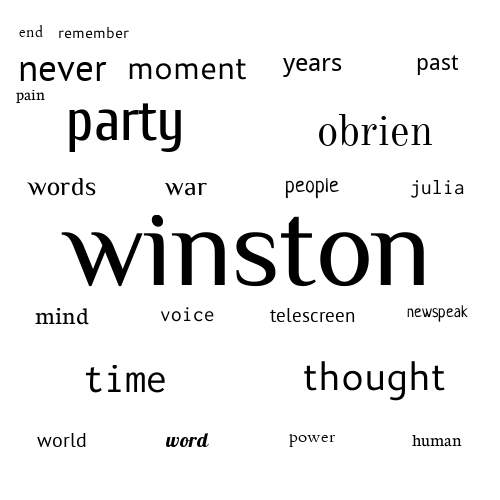
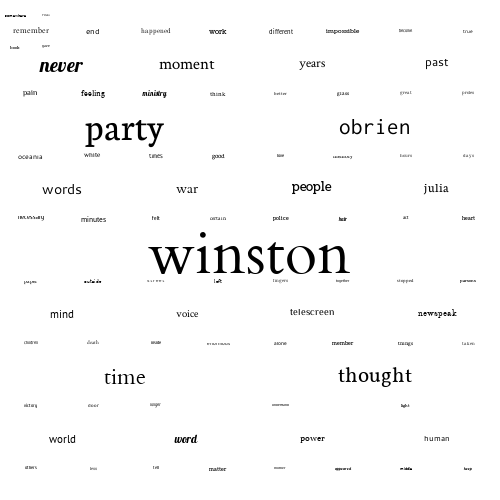
Grid is now drawn dynamically based on size of num words

diff --git a/wordcloud/grid.py b/wordcloud/grid.py
@@ -1,4 +1,5 @@
 import os
+import random
 from PIL import Image, ImageDraw
 
 # DEFAULT OUTPUT PATH
@@ -17,21 +18,30 @@ class GridGenerator:
 
         self.grid = generate_grid_coords(self.grid_width, self.grid_height, self.num_squares)
 
+    # DRAWS GRID AND OUTPUTS IT
     def draw_grid(self, grid_path=GRID_IMG_FILEPATH):
         GRID_IMG = Image.new('RGB', (self.grid_width, self.grid_height), color='white')
         draw = ImageDraw.Draw(GRID_IMG)
 
-        count = 1
+        # Calculates sum some grid can be drawn dynamically
+        sums = []
+        for x in range(0, self.exponent):
+            val = pow(4, x) if x == 0 else pow(4, x) + sums[x-1]
+            sums.append(val)
+
+        # Draws grid dynamically based on num words to be placed
+        num_drawn = 1
+        width = pow(2, len(sums))
+        rand_colour = colour()
         for square in self.grid:
-            if count <= pow(4, 0):
-                draw.rectangle(square, outline=(255,0,0), width = 12)
-            elif count <= pow(4, 1) + pow(4, 0):
-                draw.rectangle(square, outline=(0,255,0), width = 6)
-            elif count <= pow(4, 2) + pow(4, 1) + pow(4, 0):
-                draw.rectangle(square, outline=(0,0,255), width = 3)
-            else:
-                draw.rectangle(square, outline=(255,0,255), width = 1)
-            count += 1
+            for sum in sums:
+                if(num_drawn <= sum):
+                    draw.rectangle(square, outline=rand_colour, width=width) 
+                    if num_drawn == sum:
+                        width = int(width / 2)
+                        rand_colour = colour()
+                    num_drawn += 1
+                    break
         GRID_IMG.save(grid_path)
 
     def get_grid(self):
@@ -91,3 +101,7 @@ def generate_grid_coords(grid_width, grid_height, num_squares):
             square_list.append(subsq)
         index += 1
     return square_list
+
+# Generates a random RGB Colour tuple
+def colour():
+    return (random.randint(0, 255), random.randint(0, 255), random.randint(0, 255))

diff --git a/main.py b/main.py
@@ -9,13 +9,14 @@ STOPWORDS_DATA_PATH = os.path.abspath(os.path.join(os.path.dirname( __file__ ), 
 INPUT_DATA_PATH = os.path.abspath(os.path.join(os.path.dirname( __file__ ), '.', 'input', 'data.txt'))
 
 # WORD CLOUD SETTINGS FOR OUTPUT IMAGE
-NUM_WORDS = 24
+NUM_WORDS = 86
 IMAGE_WIDTH = 500
 IMAGE_HEIGHT = 500
 
 # TO DO
-# 3. MAKE WORD PLACEMENT FAVOUR THE CENTER OF THE CANVAS
-# 4. CLEAN UP IMAGE GENERATION [wip]
+# 1. MAKE WORD PLACEMENT FAVOUR THE CENTER OF THE CANVAS
+# 2. CLEAN UP IMAGE GENERATION [wip]
+# 3 fix bug in grid generator lower quads on num_words>85
 
 # NORMALIZE INPUT DATA FROM FILE AND BUILD WORD DICT
 stopwords = set_stopwords(STOPWORDS_DATA_PATH)
